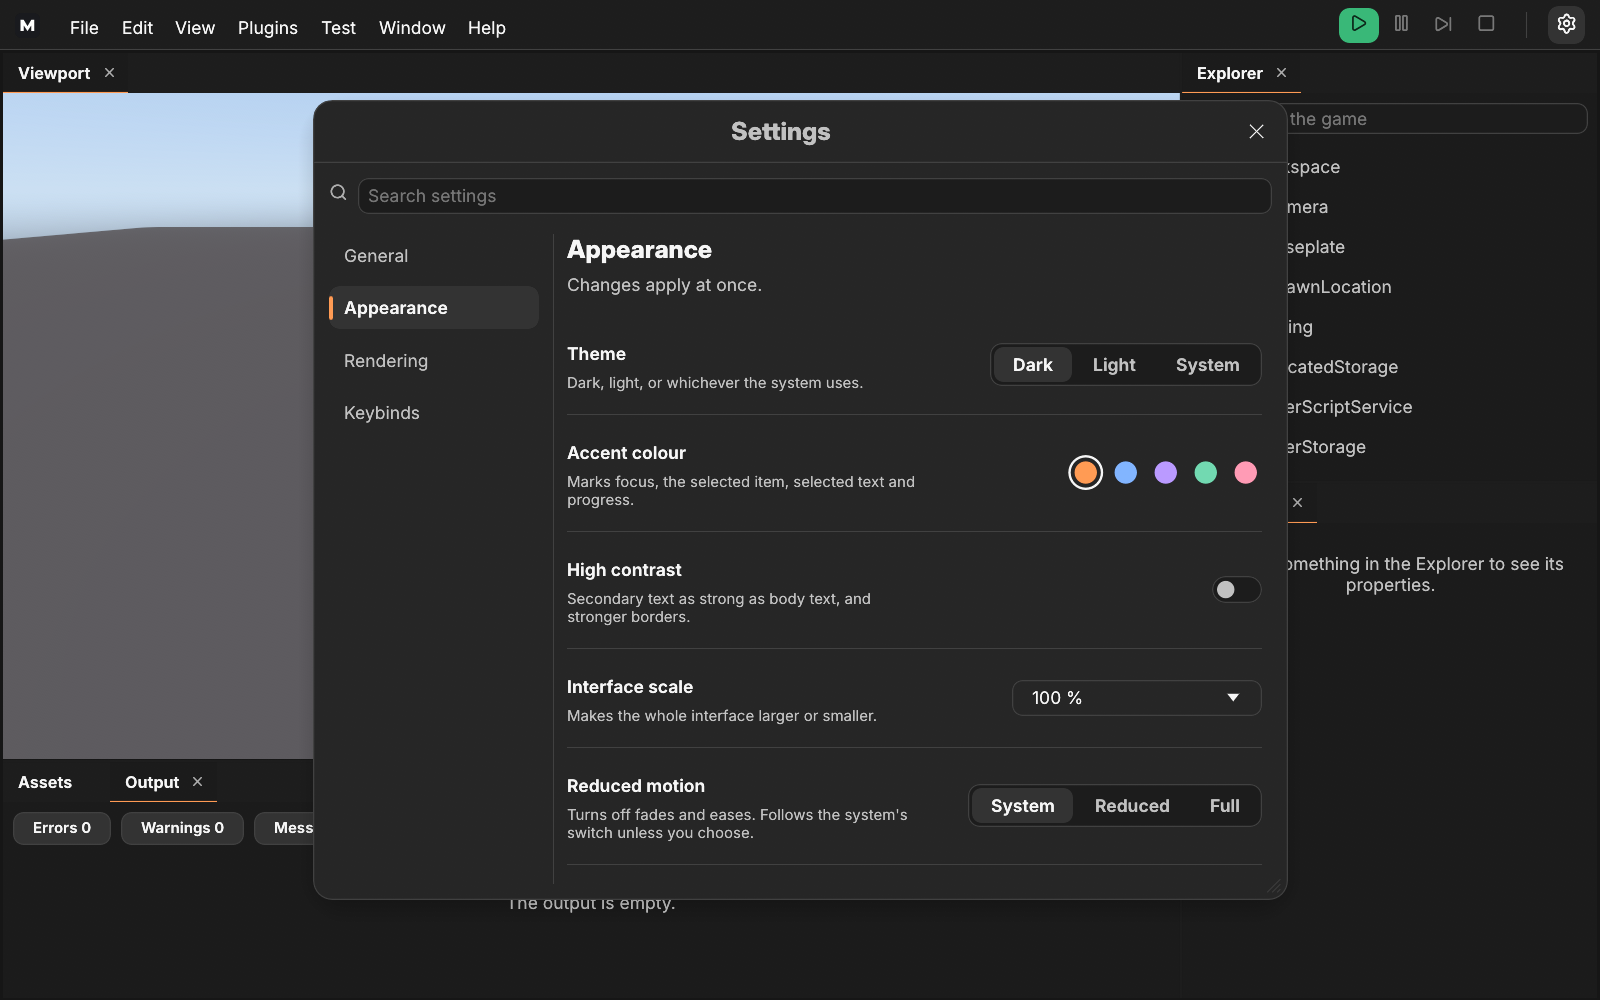
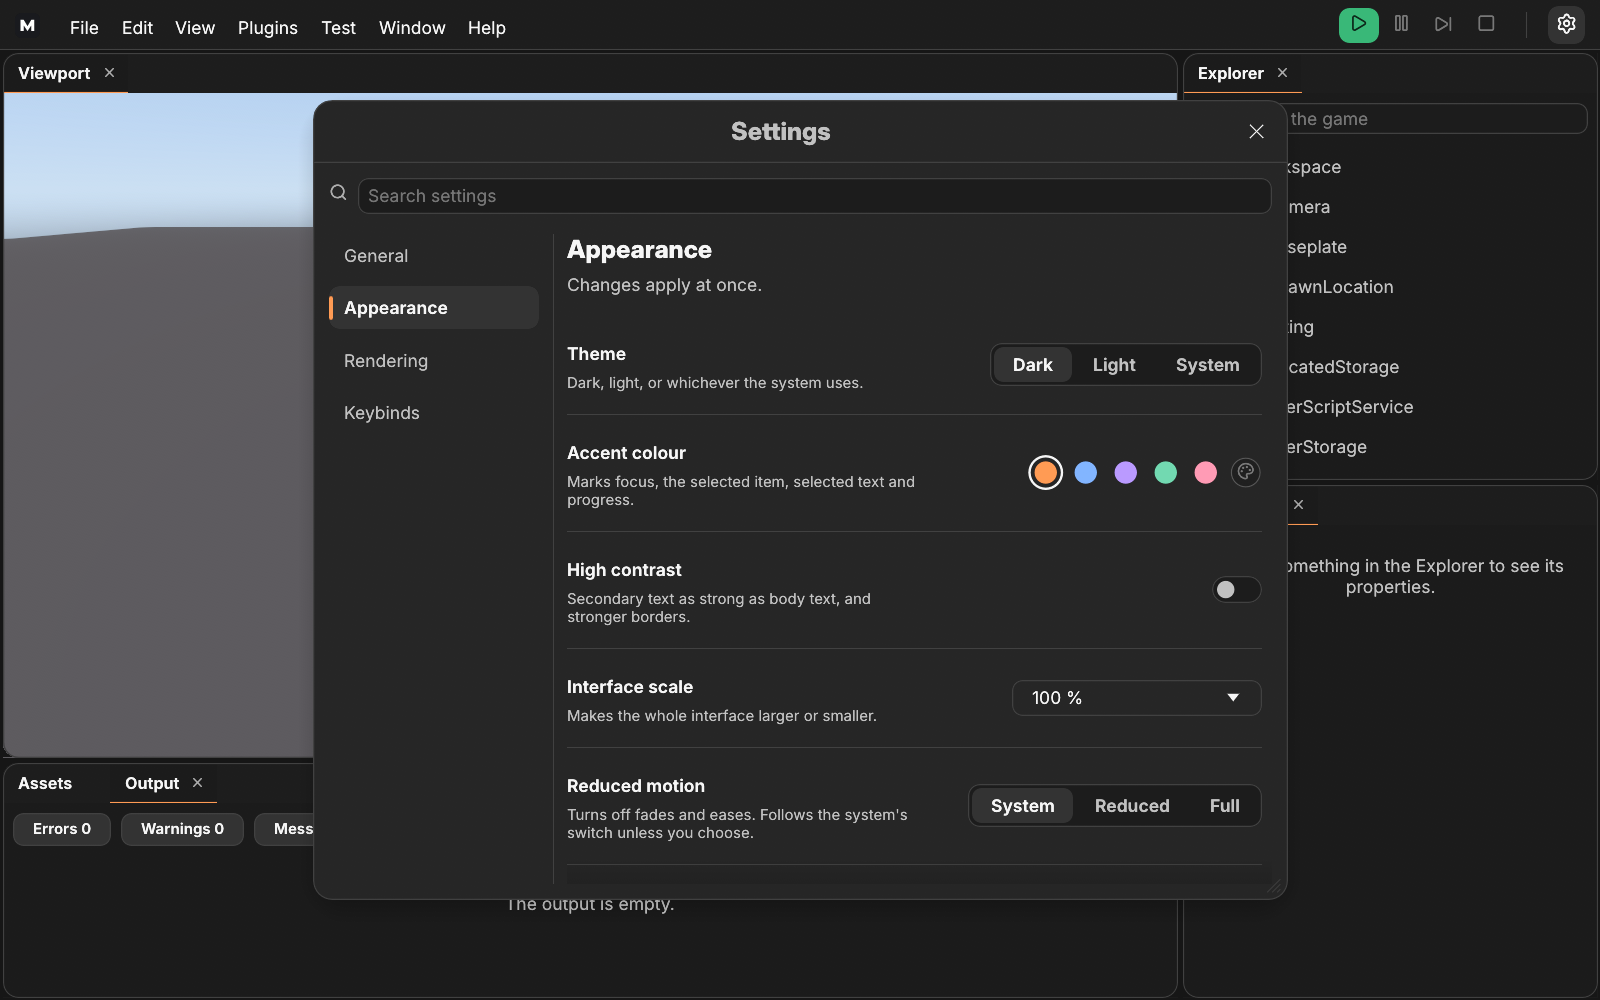
studio: custom accent colour button with Lucide's palette, not functional yet (#263) (#268)

diff --git a/apps/studio/src/settings/window.rs b/apps/studio/src/settings/window.rs
@@ -730,6 +730,8 @@ fn accent_swatches(ui: &mut Ui, accent: &mut Accent) {
     let colors = current_colors(ui.ctx());
     let p = colors.palette;
     ui.spacing_mut().item_spacing.x = space::S3;
+    // Right to left: the custom colour first, so it reads last.
+    custom_accent(ui);
     for choice in Accent::ALL.into_iter().rev() {
         let (rect, response) = ui.allocate_exact_size(vec2(26.0, 26.0), Sense::click());
         let chosen = *accent == choice;
@@ -754,6 +756,34 @@ fn accent_swatches(ui: &mut Ui, accent: &mut Accent) {
             }
         }
     }
+}
+
+/// What the custom colour button says while there is no colour picker.
+pub(crate) const CUSTOM_ACCENT_SOON: &str = "A colour of your own. Coming with the colour picker.";
+
+/// The custom accent colour (#263): a round button with Lucide's palette, the swatches' size. Disabled until Studio
+/// has a colour picker, so it changes nothing yet.
+fn custom_accent(ui: &mut Ui) -> Response {
+    let p = current_colors(ui.ctx()).palette;
+    ui.add_enabled_ui(false, |ui| {
+        let (rect, response) = ui.allocate_exact_size(vec2(26.0, 26.0), Sense::click());
+        response.widget_info(|| WidgetInfo::labeled(Role::Button, ui.is_enabled(), "Custom colour"));
+        if ui.is_rect_visible(rect) {
+            let centre = rect.center();
+            // Drawn a step stronger than a live control: egui fades it as disabled.
+            ui.painter()
+                .circle(centre, 11.0, p.input, Stroke::new(size::BORDER, p.subtle));
+            ui.painter().text(
+                centre,
+                egui::Align2::CENTER_CENTER,
+                fonts::icon::PALETTE,
+                fonts::named(fonts::ICONS, text::BODY),
+                p.text,
+            );
+        }
+        response.on_disabled_hover_text(CUSTOM_ACCENT_SOON)
+    })
+    .inner
 }
 
 /// A drop-down over `choices`.

diff --git a/apps/studio/src/app/mod.rs b/apps/studio/src/app/mod.rs
@@ -1190,6 +1190,17 @@ mod tests {
             Accent::Blue.colors().light
         );
 
+        // #263: the custom colour, after the swatches, shows the palette and does nothing until there is a picker.
+        let custom = harness.get_by_role_and_label(Role::Button, "Custom colour");
+        assert!(egui_kittest::kittest::NodeT::accesskit_node(&custom).is_disabled());
+        let blue = harness
+            .get_by_role_and_label(Role::RadioButton, Accent::Blue.label())
+            .rect();
+        assert!(custom.rect().left() > blue.right(), "after the swatches");
+        custom.click();
+        settle(&mut harness);
+        assert_eq!(harness.state().studio.settings().appearance.accent, Accent::Blue);
+
         harness.get_by_role_and_label(Role::CheckBox, "High contrast").click();
         settle(&mut harness);
         assert_eq!(harness.state().studio.theme.colors().palette.muted, tokens::LIGHT.text);

diff --git a/apps/studio/src/theme/fonts.rs b/apps/studio/src/theme/fonts.rs
@@ -51,6 +51,8 @@ pub mod icon {
     pub const WARNING: char = '\u{E193}';
     /// `x`: close, dismiss.
     pub const X: char = '\u{E1B2}';
+    /// `palette`: a colour of your own.
+    pub const PALETTE: char = '\u{E1DD}';
 }
 
 /// Inter at the axis values `coords` names.
@@ -197,7 +199,7 @@ mod tests {
     #[test]
     fn the_icons_are_in_lucide() {
         with_fonts(|ui| {
-            for icon in [icon::GEAR, icon::SEARCH, icon::WARNING, icon::X] {
+            for icon in [icon::GEAR, icon::SEARCH, icon::WARNING, icon::X, icon::PALETTE] {
                 let has = ui.ctx().fonts_mut(|fonts| fonts.has_glyph(&named(ICONS, 16.0), icon));
                 assert!(has, "U+{:04X}", icon as u32);
             }
